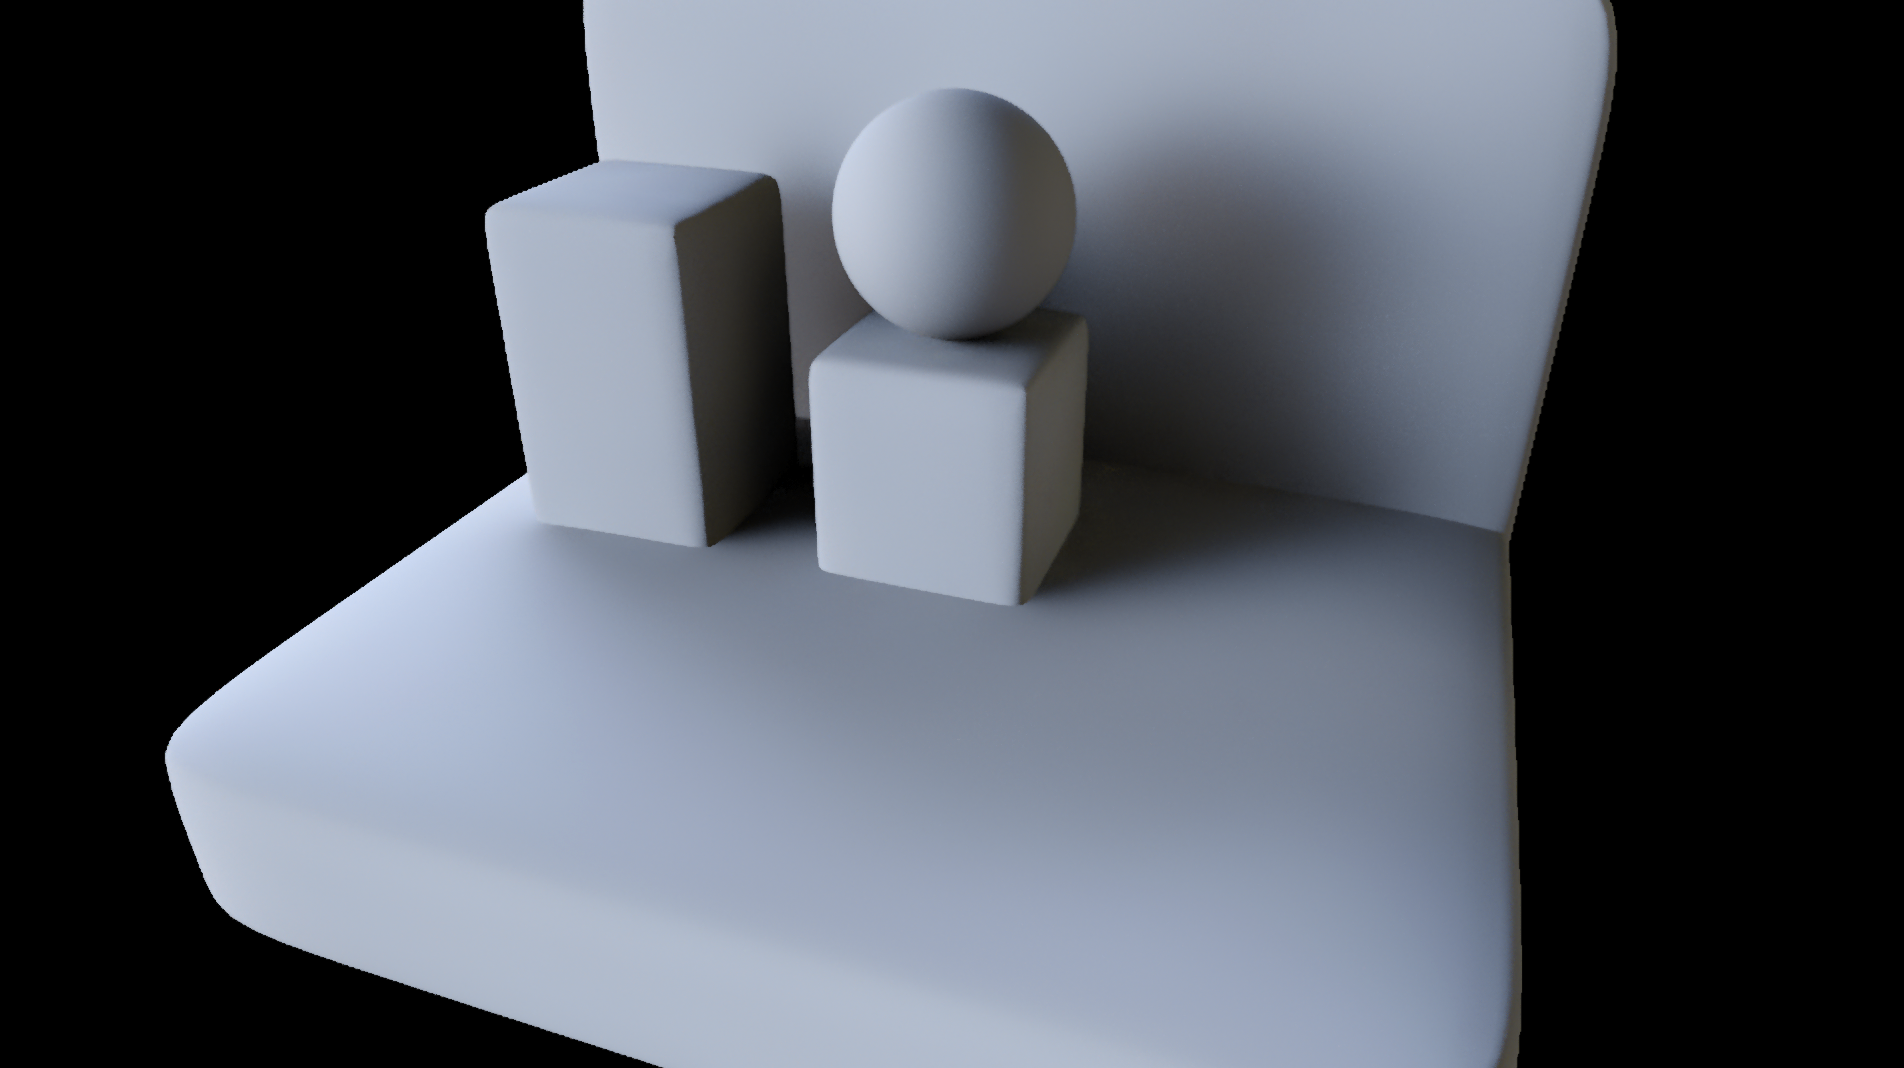
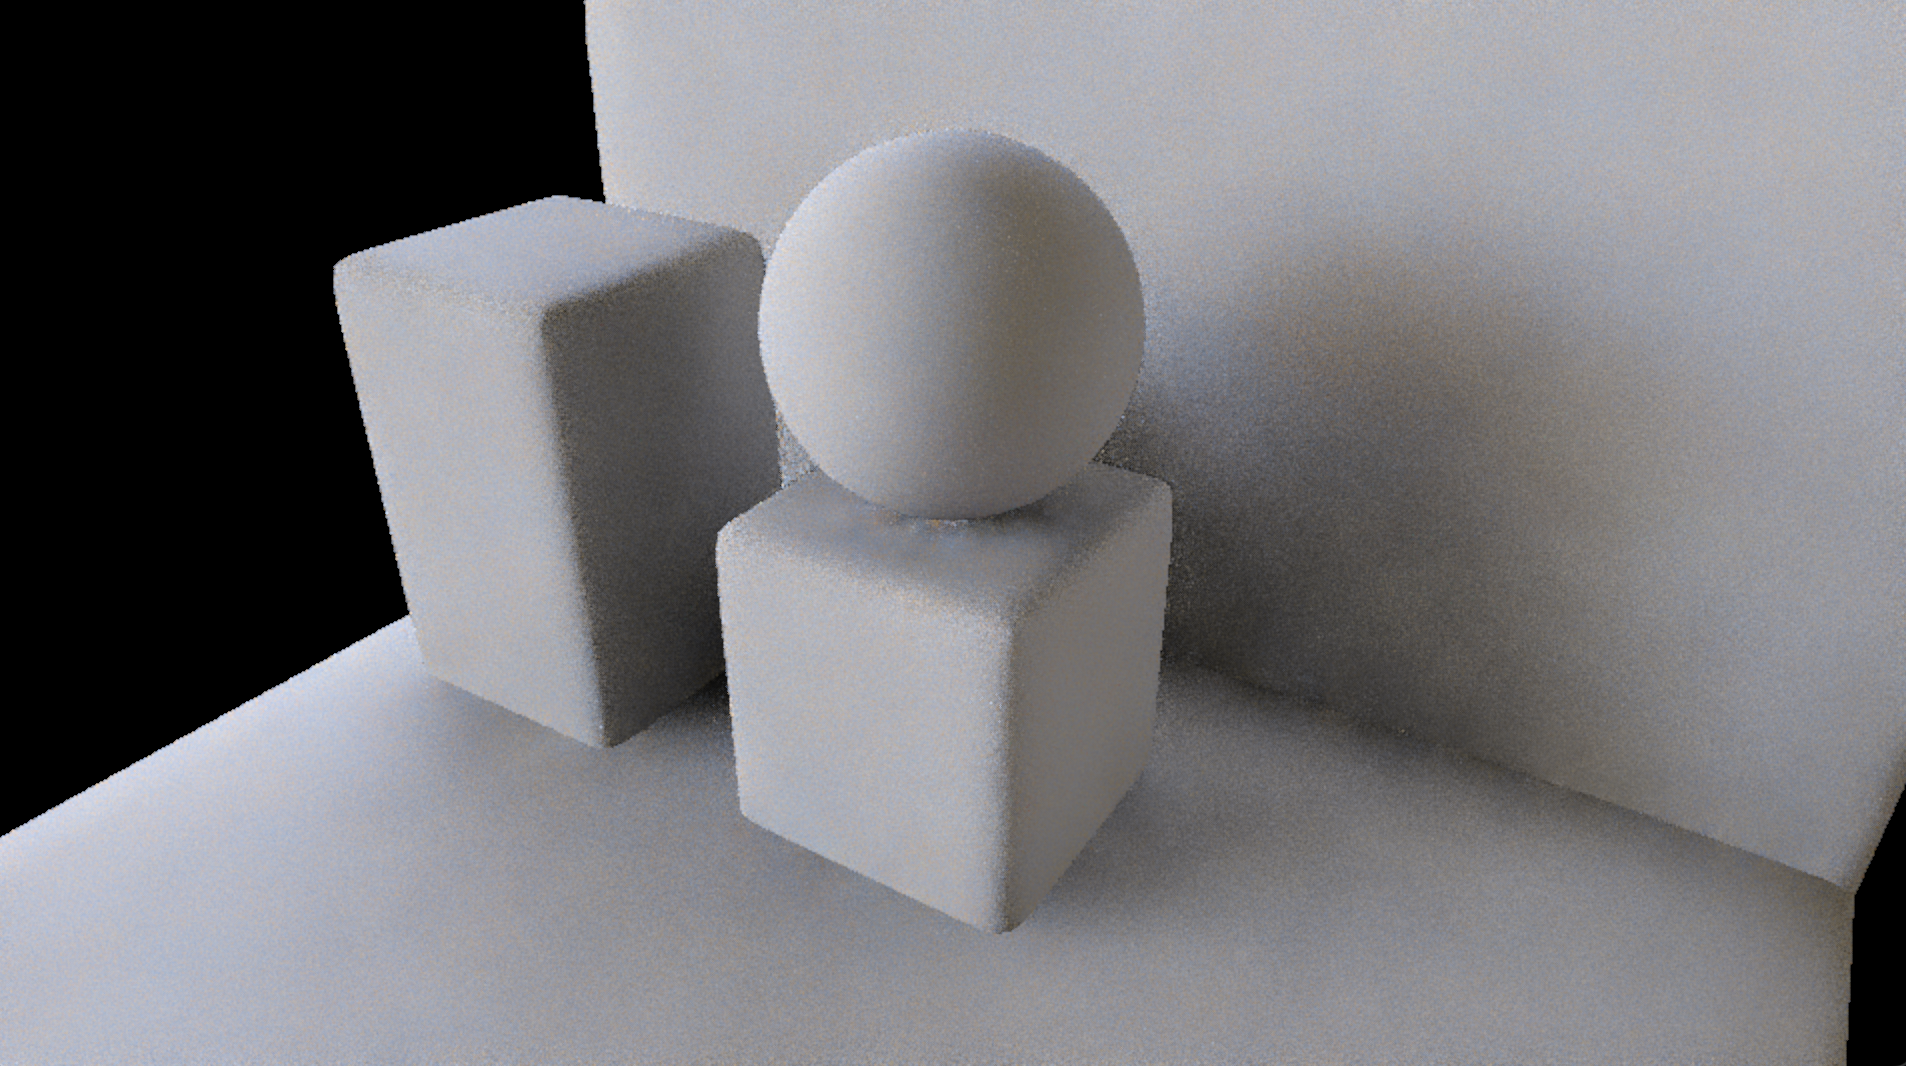
new images

diff --git a/The gi pass explained/3) Diffuse.md b/The gi pass explained/3) Diffuse.md
@@ -227,6 +227,8 @@ The output of this pass is sent to the resolve pass and fed back for temporal re
 
 ## ReSTIR resolve (full-res)
 
+![](./images/DIF5.png)
+
 Finally, we should have some reservoirs holding the best possible samples.
 The resolve pass transforms these samples into actual colors, which are rendered on screen. This step is performed at full resolution.
 
@@ -245,7 +247,7 @@ The indirect diffuse component is divided by the albedo value of each fragment t
 
 ## Temporal filtering (full-res)
 
-![](./images/DIF5.png)
+![](./images/DIF6.png)
 
 The rendered colors are filtered using a temporal filter (restir.temporalFilter_DIF.jxs). Colors are accumulated over frames, reprojecting the fragments' positions using velocity vectors. To avoid ghosting artifacts, history colors are rectified by clipping their colors within the minimum and maximum values of the neighboring pixels. Local statistics (mean variance and squared variance) are used to determine the size of the "clipping box". The param "variance_clipping_gamma" makes the clipping more or less severe.
 
